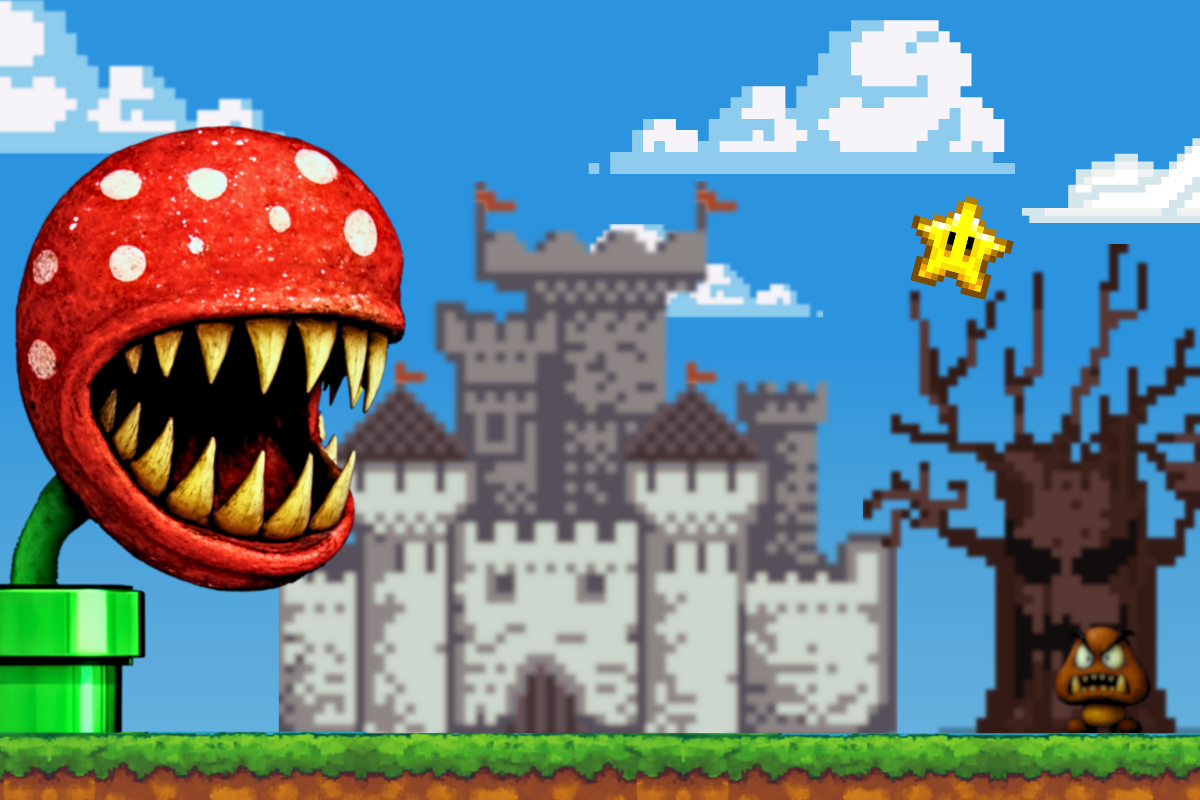
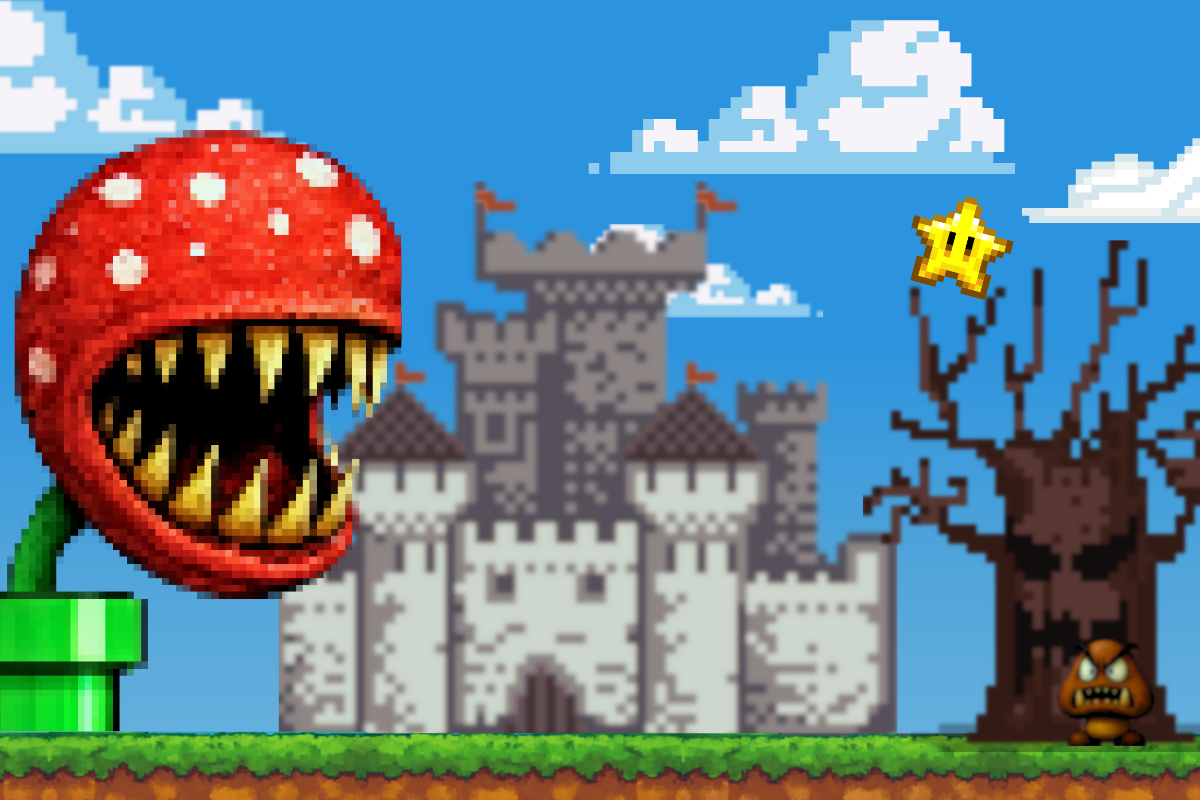
fix: theme in enemies + blocks

diff --git a/src/Map.cpp b/src/Map.cpp
@@ -20,6 +20,7 @@ Map::Map(pair<int, int> _level, int r, int c) {
     tileColumns = texture.width / TILE_SIZE;
 
     tileSetSourceRects.resize(tileRows);
+    cout << "tileRows: " << tileRows << endl;
     //for (auto& t : tileSetSourceRects) {
 
     //    t.resize(tileColumns);
@@ -190,13 +191,17 @@ void Map::createTileCatalog() {
     }
     //catalog for the rest, which have 6 palettes instead of 4 (add snow and mushroom)
 
-    for (int i = 21; i <= tileRows; i++) {
-        for (int j = 1; j < 11; j++) {
-			tileCatalog.emplace(getTileIDFromCoords(i, j), Tile(getTileIDFromCoords(i, j), tileSetSourceRects[i - 1][j - 1], ENEMY, new DecorationTileBehavior())); //Ground tiles
+    for (int i = 21; i <= 21; i++) {
+        for(auto& theme: themes){
+            int themeOffset = static_cast<int>(theme);
+            for (int j = 1; j < 11; j++) {
+                tileCatalog.emplace(getTileIDFromCoords(i + themeOffset, j), Tile(getTileIDFromCoords(i + themeOffset, j), tileSetSourceRects[i + themeOffset- 1][j - 1], ENEMY, new DecorationTileBehavior(), theme)); //Ground tiles
+            }
+
+            for (int j = 11; j < 14; j++) {
+                if (themeOffset != 2) tileCatalog.emplace(getTileIDFromCoords(i + themeOffset, j), Tile(getTileIDFromCoords(i + themeOffset , j), tileSetSourceRects[i + themeOffset - 1][j - 1], GROUND, new DecorationTileBehavior(), theme)); //Ground tiles
+            }
         }
-        for (int j = 11; j < 14; j++) {
-            if (i != 23) tileCatalog.emplace(getTileIDFromCoords(i, j), Tile(getTileIDFromCoords(i, j), tileSetSourceRects[i - 1][j - 1], GROUND, new DecorationTileBehavior())); //Ground tiles
-		}
     }
     //temporary enemies to add to map
 
@@ -304,7 +309,7 @@ Tile Map::getTile(int tileID) const {
         TraceLog(LOG_INFO, "inavailable in catalog");
         return Tile(0, tileSetSourceRects[0][0], EMPTY, tileCatalog.at(0).behavior);
     }
-    return Tile(it->second.id, it->second.srcRect, it->second.type, it->second.behavior);
+    return Tile(it->second.id, it->second.srcRect, it->second.type, it->second.behavior, it->second.theme);
 }
 
 Tile Map::getTile(int row, int col) const {
@@ -322,23 +327,20 @@ MapTileInstance* Map::getMapTileInstance(int row, int col) {
     return &mapData[row][col];
 }
 
-void Map::setEnemySpawnCallback(function<void(EnemyType, Vector2)> callback) {
+void Map::setEnemySpawnCallback(function<void(EnemyType, Vector2, MapTheme)> callback) {
     spawnEnemyCallback = callback;
 }
 
-EnemyType Map::getEnemyType(int tileID) {
-    switch (tileID)
-    {
-    case 541:
-        return EnemyType::GOOMBA; break;
-    case 543:
-        return EnemyType::KOOPA; break;
-    case 544:
-        return EnemyType::PIRANT_PLANT; break;
+EnemyType Map::getEnemyType(int ID) {
+   for(int i = 21; i <= tileSetSourceRects.size(); i++){
+       for(int j = 1 ; j <= tileSetSourceRects[i].size(); j++){
+            if(j == 1  && ID == getTileIDFromCoords(i, j)) return EnemyType::GOOMBA;
+            else if(j== 3 && ID == getTileIDFromCoords(i, j)) return EnemyType::KOOPA;
+            else if(j== 4 && ID == getTileIDFromCoords(i, j)) return EnemyType::PIRANT_PLANT;
+        }
+   }
 
-    default:
-        return EnemyType::GOOMBA;
-    }
+   return EnemyType::None;
 }
 void Map::setTile(int row, int col, int tileID) {
     if (row < 0 || row >= rows || col < 0 || col >= columns) {
@@ -357,11 +359,15 @@ void Map::setTile(int row, int col, int tileID) {
 
         if (spawnEnemyCallback) {
             EnemyType enemyType = getEnemyType(tileID);
+            if(enemyType == EnemyType::None) {
+                TraceLog(LOG_ERROR, "Invalid enemy");
+                return;
+            }
             Vector2 spawnPos = {
                 static_cast<float>(col * TILE_SIZE),
                 static_cast<float>(row * TILE_SIZE)
             };
-            spawnEnemyCallback(enemyType, spawnPos);
+            spawnEnemyCallback(enemyType, spawnPos, it->second.theme);
         }
     }
     mapData[row][col].tileID = tileID;
@@ -424,7 +430,6 @@ void Map::loadFromFile(pair<int, int> level, bool isEditing) {
                     auto it = tileCatalog.find(id);
                     if (id && it != tileCatalog.end()) {
                         if(it->second.type == TileType::COIN){
-                            cout << "spawn coin\n";
                             Singleton<ItemManager>::getInstance().Spawn(ItemType::COIN, {(float) y * TILE_SIZE, (float) x * TILE_SIZE});
                         }
                     }
@@ -456,7 +461,7 @@ void Map::loadFromFile(pair<int, int> level, bool isEditing) {
     }
 
     mapData_first = mapData;
-    cout << "Loaded file successfully: " << filename << endl;
+    std::cout << "Loaded file successfully: " << filename << endl;
     MyReadFile.close();
 }
 

diff --git a/src/ConcreteTileBehavior.cpp b/src/ConcreteTileBehavior.cpp
@@ -70,7 +70,10 @@ void BrickTileBehavior::update(float dt, int tileRow, int tileCol, Map* map, Map
 
     if (brickState->hasBroken) {
         //EffectManager::get().spawnCoin(tileRow, tileCol);
-        Singleton<EffectManager>::getInstance().spawnBrickBreak(tileRow, tileCol);
+        Tile tile = map->getTile(tileInstance->tileID);
+        cout << "id: " << tileInstance->tileID << endl; 
+        cout << "theme: " << (float) tile.theme << endl;
+        Singleton<EffectManager>::getInstance().spawnBrickBreak(tileRow, tileCol, tile.theme);
         brickState->hasBroken = false;
         map->removeTile(tileRow, tileCol);
     }
@@ -132,7 +135,7 @@ void QuestionTileBehavior::update(float dt, int tileRow, int tileCol, Map* map, 
         if (tileState->bounceTimer.isFinished()) {
             tileState->isBouncing = false;
             map->updateTileInstancePosition(tileRow, tileCol, { 0, 0 }); // reset vị trí
-            int id =  map->getTileIDFromCoords(1, 22);
+            int id =  map->getTileIDFromCoords(1 +(int) map->getTile(tileInstance->tileID).theme * 2 , 22 );
             map->setTile(tileRow, tileCol, id);
            // cout << 1;
         }

diff --git a/src/PiranhaPlant.cpp b/src/PiranhaPlant.cpp
@@ -11,19 +11,21 @@ PiranhaPlant::PiranhaPlant() : Enemy(){
 	riseoffset = riseHeight;
 }
 
-PiranhaPlant::PiranhaPlant(Vector2 pipeTop) {
+PiranhaPlant::PiranhaPlant(Vector2 pipeTop, MapTheme _theme) {
 	basePos = pipeTop;
 	this->position = pipeTop;
+	theme = _theme;
 	LoadSource();
 
 	float riseHeight = animation.getcurrentframe().height * scale;
 	riseoffset = riseHeight;
 }
 
-PiranhaPlant::PiranhaPlant(Vector2 pipeTop, float riseHeight) {
+PiranhaPlant::PiranhaPlant(Vector2 pipeTop, float riseHeight, MapTheme _theme) {
 	basePos = pipeTop;
 	riseoffset = riseHeight;
 	this->position = pipeTop;
+	theme = _theme;
 	LoadSource();
 }
 PiranhaPlant::~PiranhaPlant() {
@@ -38,8 +40,8 @@ void PiranhaPlant::LoadSource() {
 	animation.currentframe = 0;
 	animation.currenttime = 0;
 	animation.durationtime = 0.3f;
-	animation.frame.push_back({ 0, 138, 16, 24 });
-	animation.frame.push_back({ 18, 138, 16, 24 });
+	animation.frame.push_back({ 0+ (float)theme * 146, 138, 16, 24 });
+	animation.frame.push_back({ 18+ (float)theme * 146, 138, 16, 24 });
 }
 
 void PiranhaPlant::Update(float deltatime, Map* map) {

diff --git a/src/KoopaTroopa.cpp b/src/KoopaTroopa.cpp
@@ -9,8 +9,9 @@ KoopTroopa::KoopTroopa() : Enemy() {
 	LoadSource();
 }
 
-KoopTroopa::KoopTroopa(Vector2 position) {
+KoopTroopa::KoopTroopa(Vector2 position, MapTheme _theme) {
 	this->position = position;
+	theme = _theme;
 	LoadSource();
 
 	currentState = KoopaState::Walk;
@@ -26,19 +27,19 @@ void KoopTroopa::LoadSource() {
 	walk.currentframe = 0;
 	walk.currenttime = 0;
 	walk.durationtime = 0.3f;
-	walk.frame.push_back({ 0, 112, 16, 24 });
-	walk.frame.push_back({ 18, 112, 16, 24 });
+	walk.frame.push_back({ 0 + (float)theme * 146, 112, 16, 24 });
+	walk.frame.push_back({ 18 + (float)theme * 146, 112, 16, 24 });
 	animation[KoopaState::Walk] = walk;
 
 	Animation shell;
 	shell.currentframe = 0;
 	shell.currenttime = 0;
 	shell.durationtime = 0.2;
-	shell.frame.push_back({ 72, 120, 16, 16 });
+	shell.frame.push_back({ 72 + (float)theme * 146, 120, 16, 16 });
 	animation[KoopaState::Shell] = shell;
 
 	Animation die;
-	die.frame.push_back({ 72, 120, 16, 16 });
+	die.frame.push_back({ 72 + (float)theme * 146, 120, 16, 16 });
 	die.durationtime = 0.2;
 	animation[KoopaState::Die] = die;
 	

diff --git a/src/BrickBreakEffect.cpp b/src/BrickBreakEffect.cpp
@@ -1,11 +1,11 @@
 #include "../headers/BrickBreakEffect.h"
-
-BrickBreakEffect::BrickBreakEffect(Vector2 position)
-        : pos(position){
+#include "../headers/Global.h"
+BrickBreakEffect::BrickBreakEffect(Vector2 position, MapTheme _theme)
+        : pos(position), maptheme(_theme){
     
     vector<Rectangle> brickFrames;
     for(int i = 0; i < 2; i++){
-        brickFrames.push_back(Rectangle{(float)(180 + i * 10), 26, 8, 8});
+        brickFrames.push_back(Rectangle{(float)(180 + i * 10), 26 + (float) _theme * 108, 8, 8});
     }
 
     anim.frame = brickFrames;
@@ -51,8 +51,9 @@ void BrickBreakEffect::update(float dt) {
 
 
 void BrickBreakEffect::draw(const Texture2D& texture) {
+    Rectangle src = anim.getcurrentframe();
     for (auto& p : particle) {
-        DrawTexturePro(texture, anim.getcurrentframe(),
+        DrawTexturePro(texture, src,
             { p.x, p.y, anim.getcurrentframe().width * 3, anim.getcurrentframe().height * 3 },
             { 0,0 }, 0, WHITE);
     }

diff --git a/src/GoomBa.cpp b/src/GoomBa.cpp
@@ -10,9 +10,10 @@ GoomBa::GoomBa() : Enemy(){
 	LoadSource();
 }
 
-GoomBa::GoomBa(Vector2 position) : Enemy() {
+GoomBa::GoomBa(Vector2 position, MapTheme theme) : Enemy() {
 	currentState = GoomBaState::Run;
 	this->position = position;
+	this->theme = theme; 
 	LoadSource();
 }
 
@@ -29,15 +30,15 @@ void GoomBa::LoadSource() {
 	run.currentframe = 0;
 	run.currenttime = 0;
 	run.durationtime = 0.3f;
-	run.frame.push_back({ 0, 16, 16, 16 });
-	run.frame.push_back({ 18, 16, 16, 16 });
+	run.frame.push_back({ 0 + (float)theme * 74, 16, 16, 16 });
+	run.frame.push_back({ 18+ (float)theme * 74, 16, 16, 16 });
 	animation[GoomBaState::Run] = run;
 
 	Animation die;
 	die.currentframe = 0;
 	die.currenttime = 0;
 	die.durationtime = 0.3f;
-	die.frame.push_back({ 36, 24, 16, 8 });
+	die.frame.push_back({ 36+ (float)theme * 74, 24, 16, 8 });
 	animation[GoomBaState::DIE_STOMP] = die;
 
 	animation[GoomBaState::DIE_FALLING].frame = {};

diff --git a/headers/EnemyFactory.h b/headers/EnemyFactory.h
@@ -2,18 +2,18 @@
 #include "../headers/GoomBa.h"
 #include "../headers/PiranhaPlant.h"
 #include "../headers/KoopaTroopa.h"
-#include  "../headers/Global.h"
+#include "../headers/Global.h"
 
 class EnemyFactory {
 public:
-    static Enemy* createEnemy(EnemyType type, Vector2 pos) {
+    static Enemy* createEnemy(EnemyType type, Vector2 pos, MapTheme theme) {
         switch (type) {
             case EnemyType::GOOMBA:
-                return new GoomBa(pos);
+                return new GoomBa(pos, theme);
             case EnemyType::KOOPA:
-                return new KoopTroopa(pos);
+                return new KoopTroopa(pos, theme);
             case EnemyType::PIRANT_PLANT:
-                return new PiranhaPlant(pos);
+                return new PiranhaPlant(pos, theme);
             default:
                 return nullptr;
         }

diff --git a/headers/Map.h b/headers/Map.h
@@ -35,7 +35,7 @@ protected:
     map<TileType, Animation> tileAnimation;
     void createTileCatalog();
     void createTileAnimation();
-    function<void(EnemyType, Vector2)> spawnEnemyCallback;
+    function<void(EnemyType, Vector2, MapTheme)> spawnEnemyCallback;
 
     pair<int, int> level = {1,1};
     MapTheme maptheme;
@@ -60,8 +60,8 @@ public:
     void updateTileInstancePosition(int tileRow, int tileCol, Vector2 offset);
     MapTheme getMapTheme(pair<int, int> level);
     
-    void setEnemySpawnCallback(std::function<void(EnemyType, Vector2)> callback);
-    EnemyType getEnemyType(int tileID);
+    void setEnemySpawnCallback(std::function<void(EnemyType, Vector2, MapTheme)> callback);
+    EnemyType getEnemyType(int ID);
 
     void setTile(int row, int col, int tileID);
     void removeTile(int row, int col);

diff --git a/src/PauseState.cpp b/src/PauseState.cpp
@@ -2,13 +2,13 @@
 #include "../headers/Global.h"
 #include "../headers/MenuState.h"
 #include "../headers/PlayState.h"
-
+#include "../headers/AudioSettingsMenu.h"
 PauseState::PauseState() {
     int amount_button = 4;
     buttons.resize(amount_button);
 
     ButtonLayoutConfig cfg(amount_button);
-    const char* buttonLabels[4] = { "RESUME", "RESTART", "SAVE", "QUIT" };
+    const char* buttonLabels[4] = { "RESUME", "RESTART", "OPTIONS", "QUIT" };
     buttons = CreateButtons(buttonLabels, cfg);
 }
 
@@ -33,6 +33,9 @@ void PauseState::update(float deltatime){
     }
     else if (buttons[0]->IsClicked()) {
         Singleton<Game>::getInstance().pop();
+    }
+    else if (buttons[2]->IsClicked()){
+        Singleton<Game>::getInstance().replaceState(new AudioSettingsMenu);
     }
 
 

diff --git a/src/EffectManager.cpp b/src/EffectManager.cpp
@@ -16,13 +16,13 @@ EffectManager::EffectManager(){
    
 }
 
-void EffectManager::spawnBrickBreak(int row, int col){
+void EffectManager::spawnBrickBreak(int row, int col, MapTheme theme){
     float x =(float) col * Map::TILE_SIZE;
     float y =(float) row * Map::TILE_SIZE;
 
     Vector2 spawnPos = { x + Map::TILE_SIZE / 2 - 8, y + Map::TILE_SIZE / 2 - 8 }; // căn giữa tile
     
-    effects.emplace_back(new BrickBreakEffect(spawnPos));
+    effects.emplace_back(new BrickBreakEffect(spawnPos, theme));
     
 }
 

diff --git a/src/PlayState.cpp b/src/PlayState.cpp
@@ -28,8 +28,8 @@ PlayState::PlayState(pair<int, int> _level) {
     world[level] = new Map(level);
     
     world[level]->setEnemySpawnCallback(
-        [this](EnemyType type, Vector2 pos) {
-            enemies.push_back(EnemyFactory::createEnemy(type, pos));
+        [this](EnemyType type, Vector2 pos, MapTheme theme) {
+            enemies.push_back(EnemyFactory::createEnemy(type, pos, theme));
         }
     );
     

diff --git a/headers/Enemy.h b/headers/Enemy.h
@@ -14,6 +14,8 @@ protected:
 	Direction direction;
 	bool onGround;
 	Vector2 velocity;
+
+	MapTheme theme;
 public:
 	Enemy() : 
 		position({ 0,0 }), 
@@ -21,7 +23,8 @@ public:
 		texture({ 0 }), 
 		onGround(true), 
 		velocity({0,0}),
-		direction(Direction::Left) {}
+		direction(Direction::Left),
+		theme(MapTheme::OVERWORLD) {}
 
 	friend class Collision;
 	virtual ~Enemy() = default;
